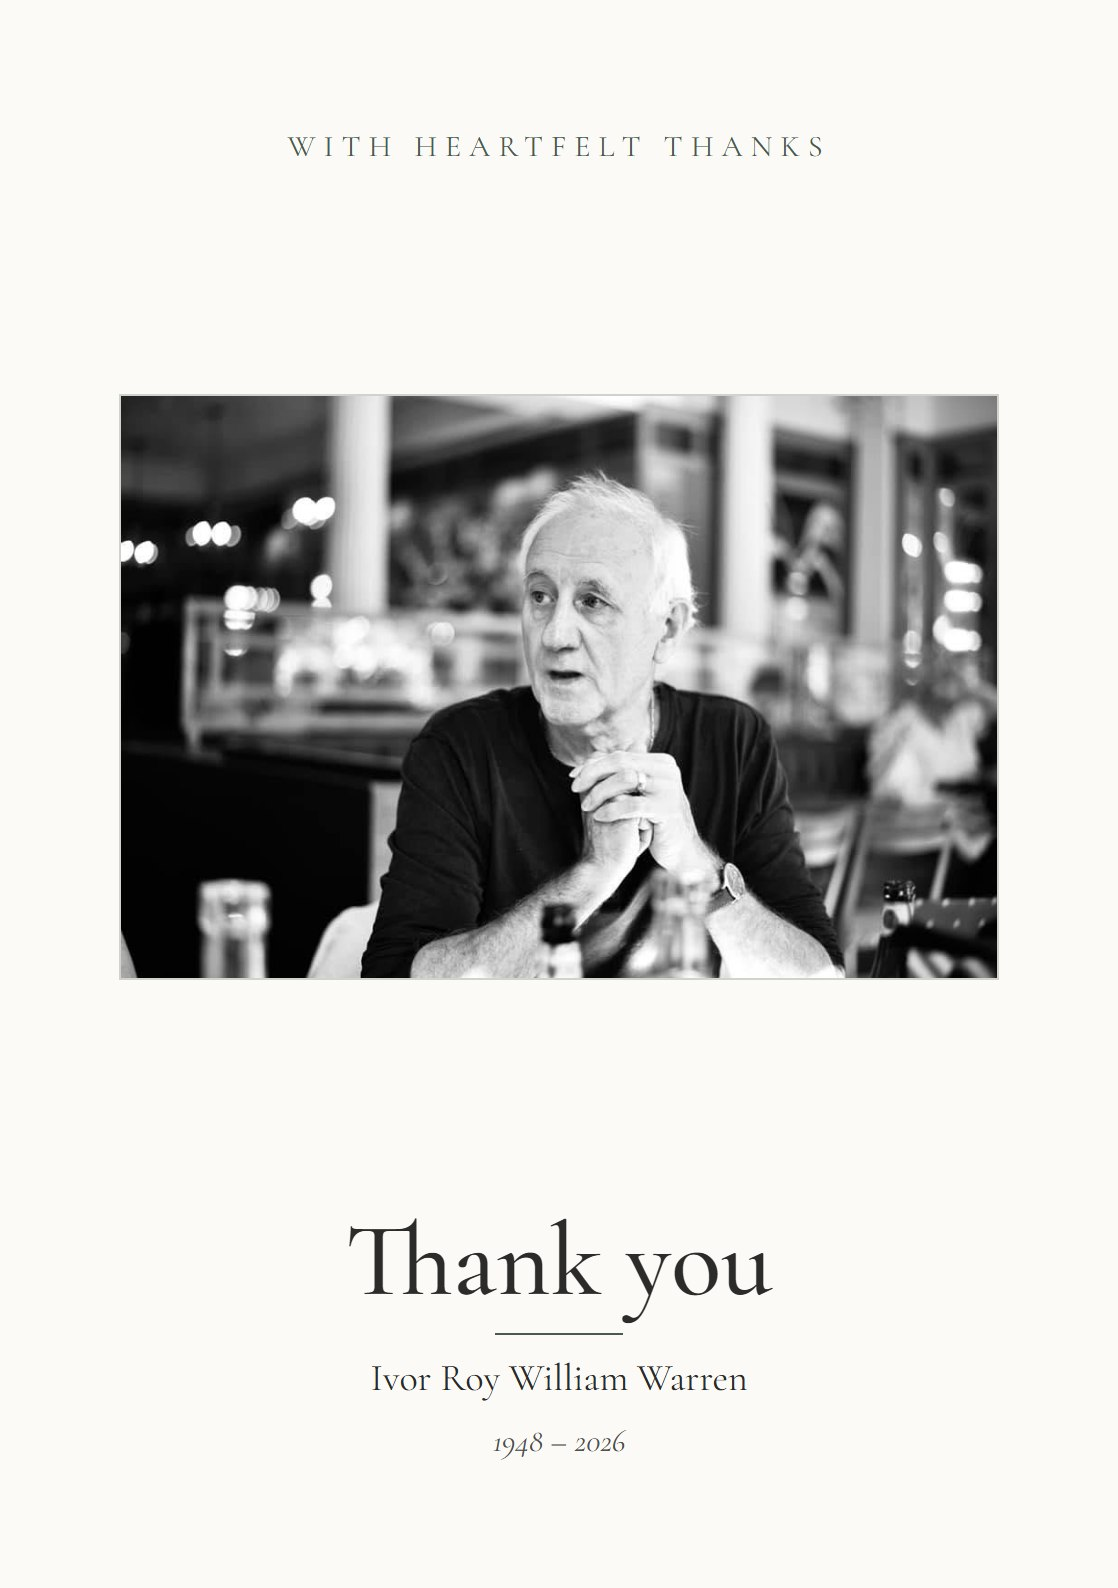
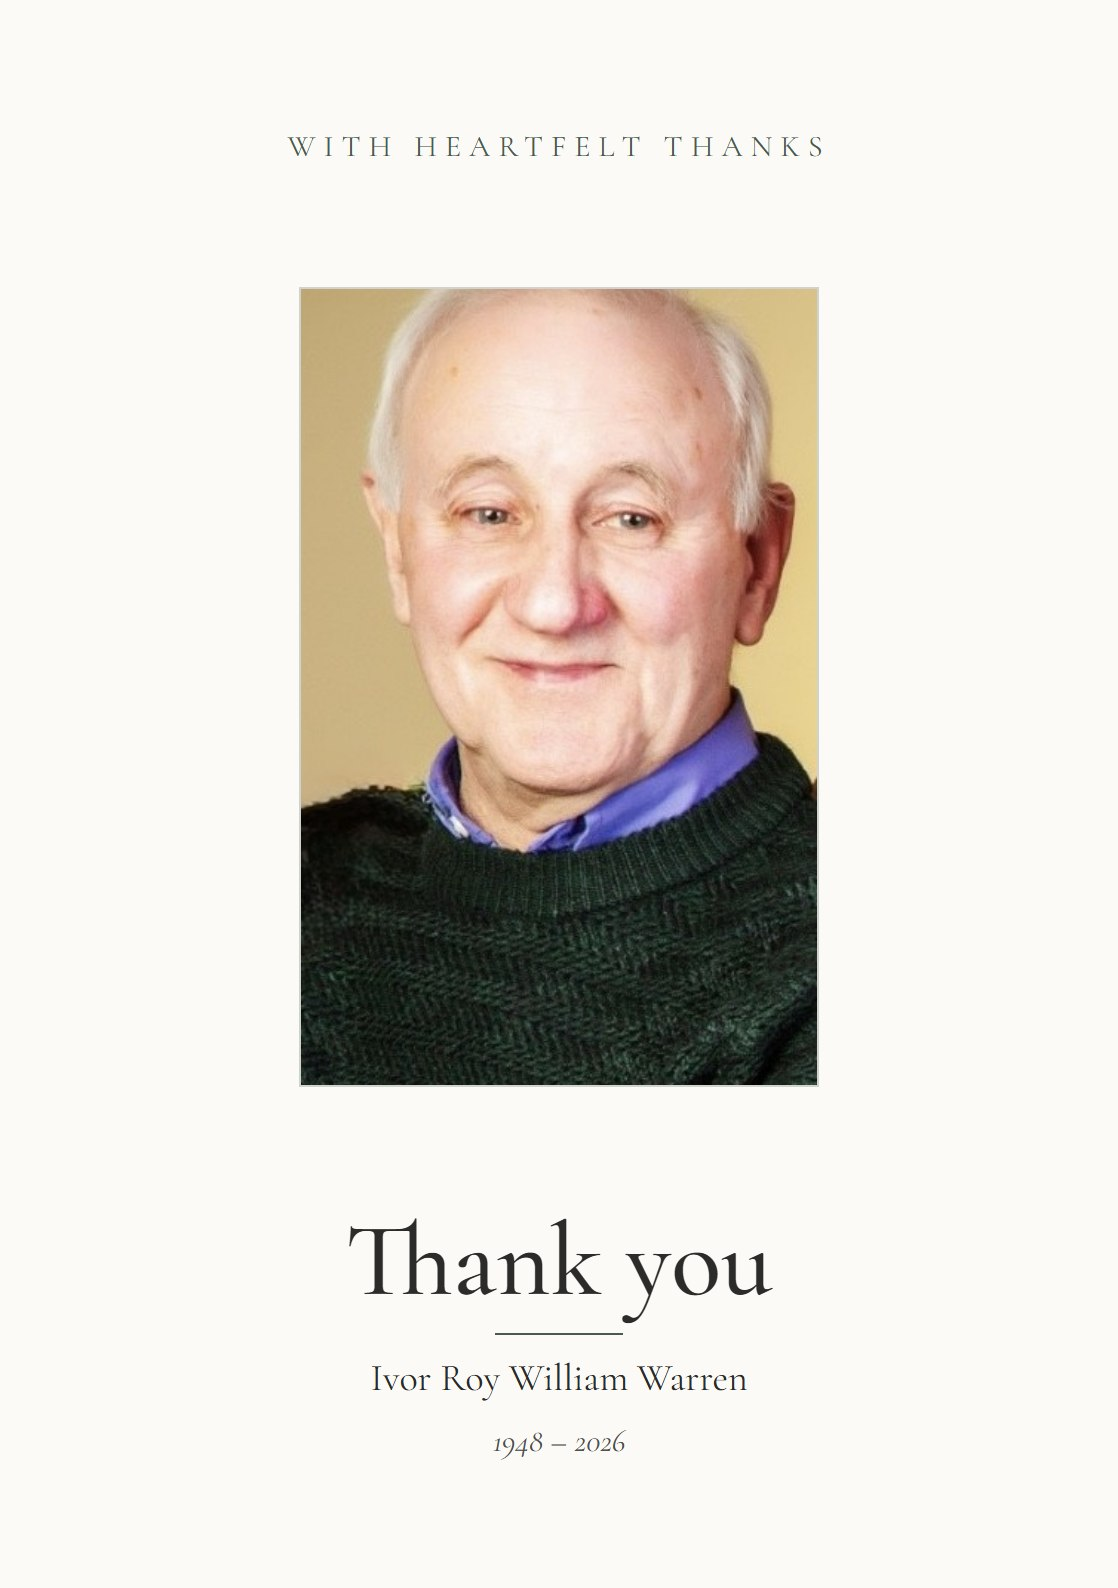
Thank-you card: colour portrait

diff --git a/index.html b/index.html
@@ -336,7 +336,7 @@ const DRAFTS=[
  ["Order of service","p8","Page 12 · Back cover","drafts/Ivor-8-back-cover.jpg?v=2"],
  ["Invitations and cards","inv","Invitation (funeral and wake)","drafts/Ivor-funeral-invitation.jpg?v=11"],
  ["Invitations and cards","board","Wake welcome board","drafts/Ivor-wake-welcome-board.jpg?v=9"],
- ["Invitations and cards","tyf","Thank-you card · front","drafts/Ivor-thank-you-card-front.jpg?v=2"],
+ ["Invitations and cards","tyf","Thank-you card · front","drafts/Ivor-thank-you-card-front.jpg?v=12"],
  ["Invitations and cards","tyi","Thank-you card · inside","drafts/Ivor-thank-you-card-inside.jpg?v=2"],
 ];
 function renderDrafts(){
